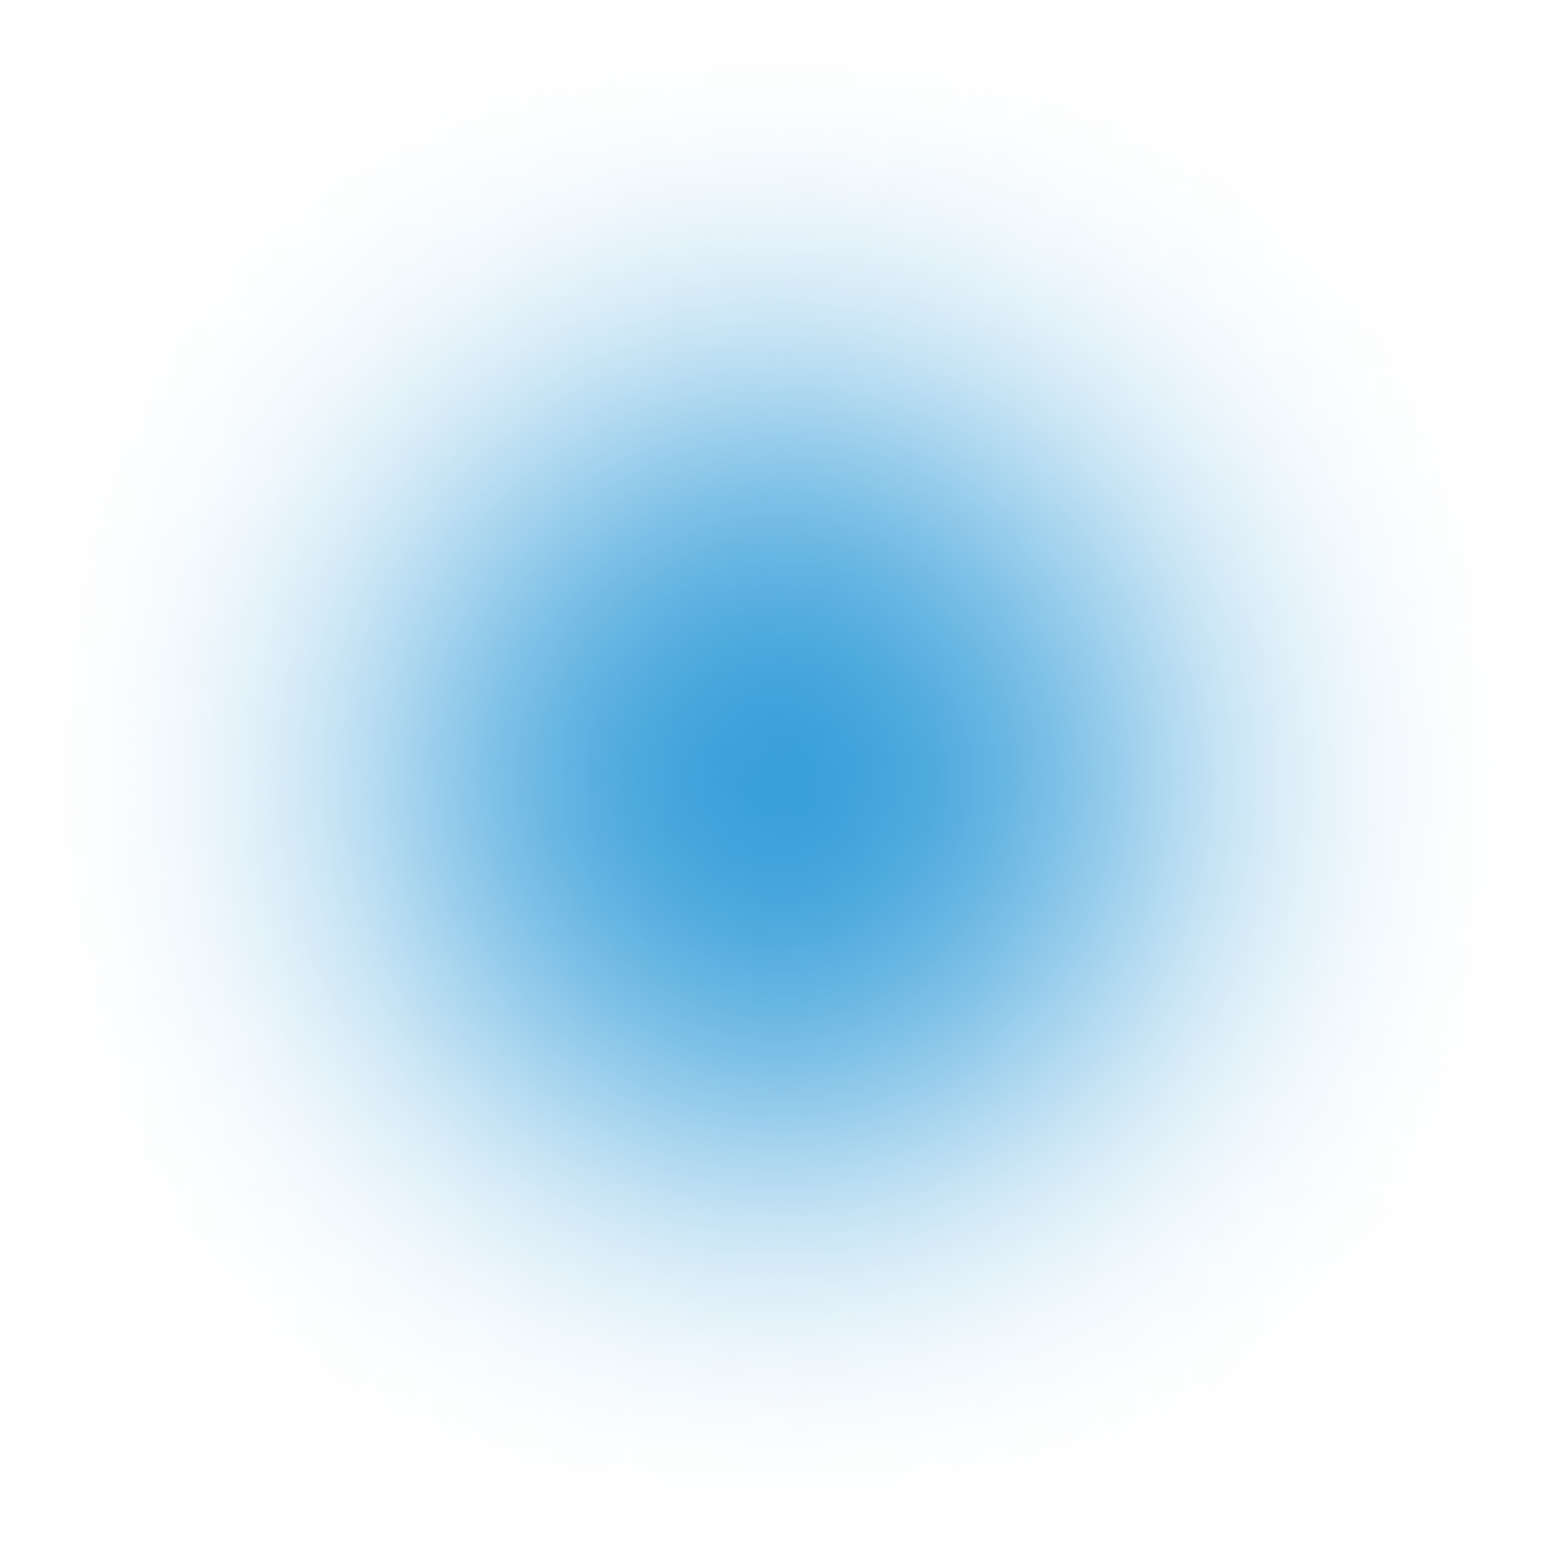
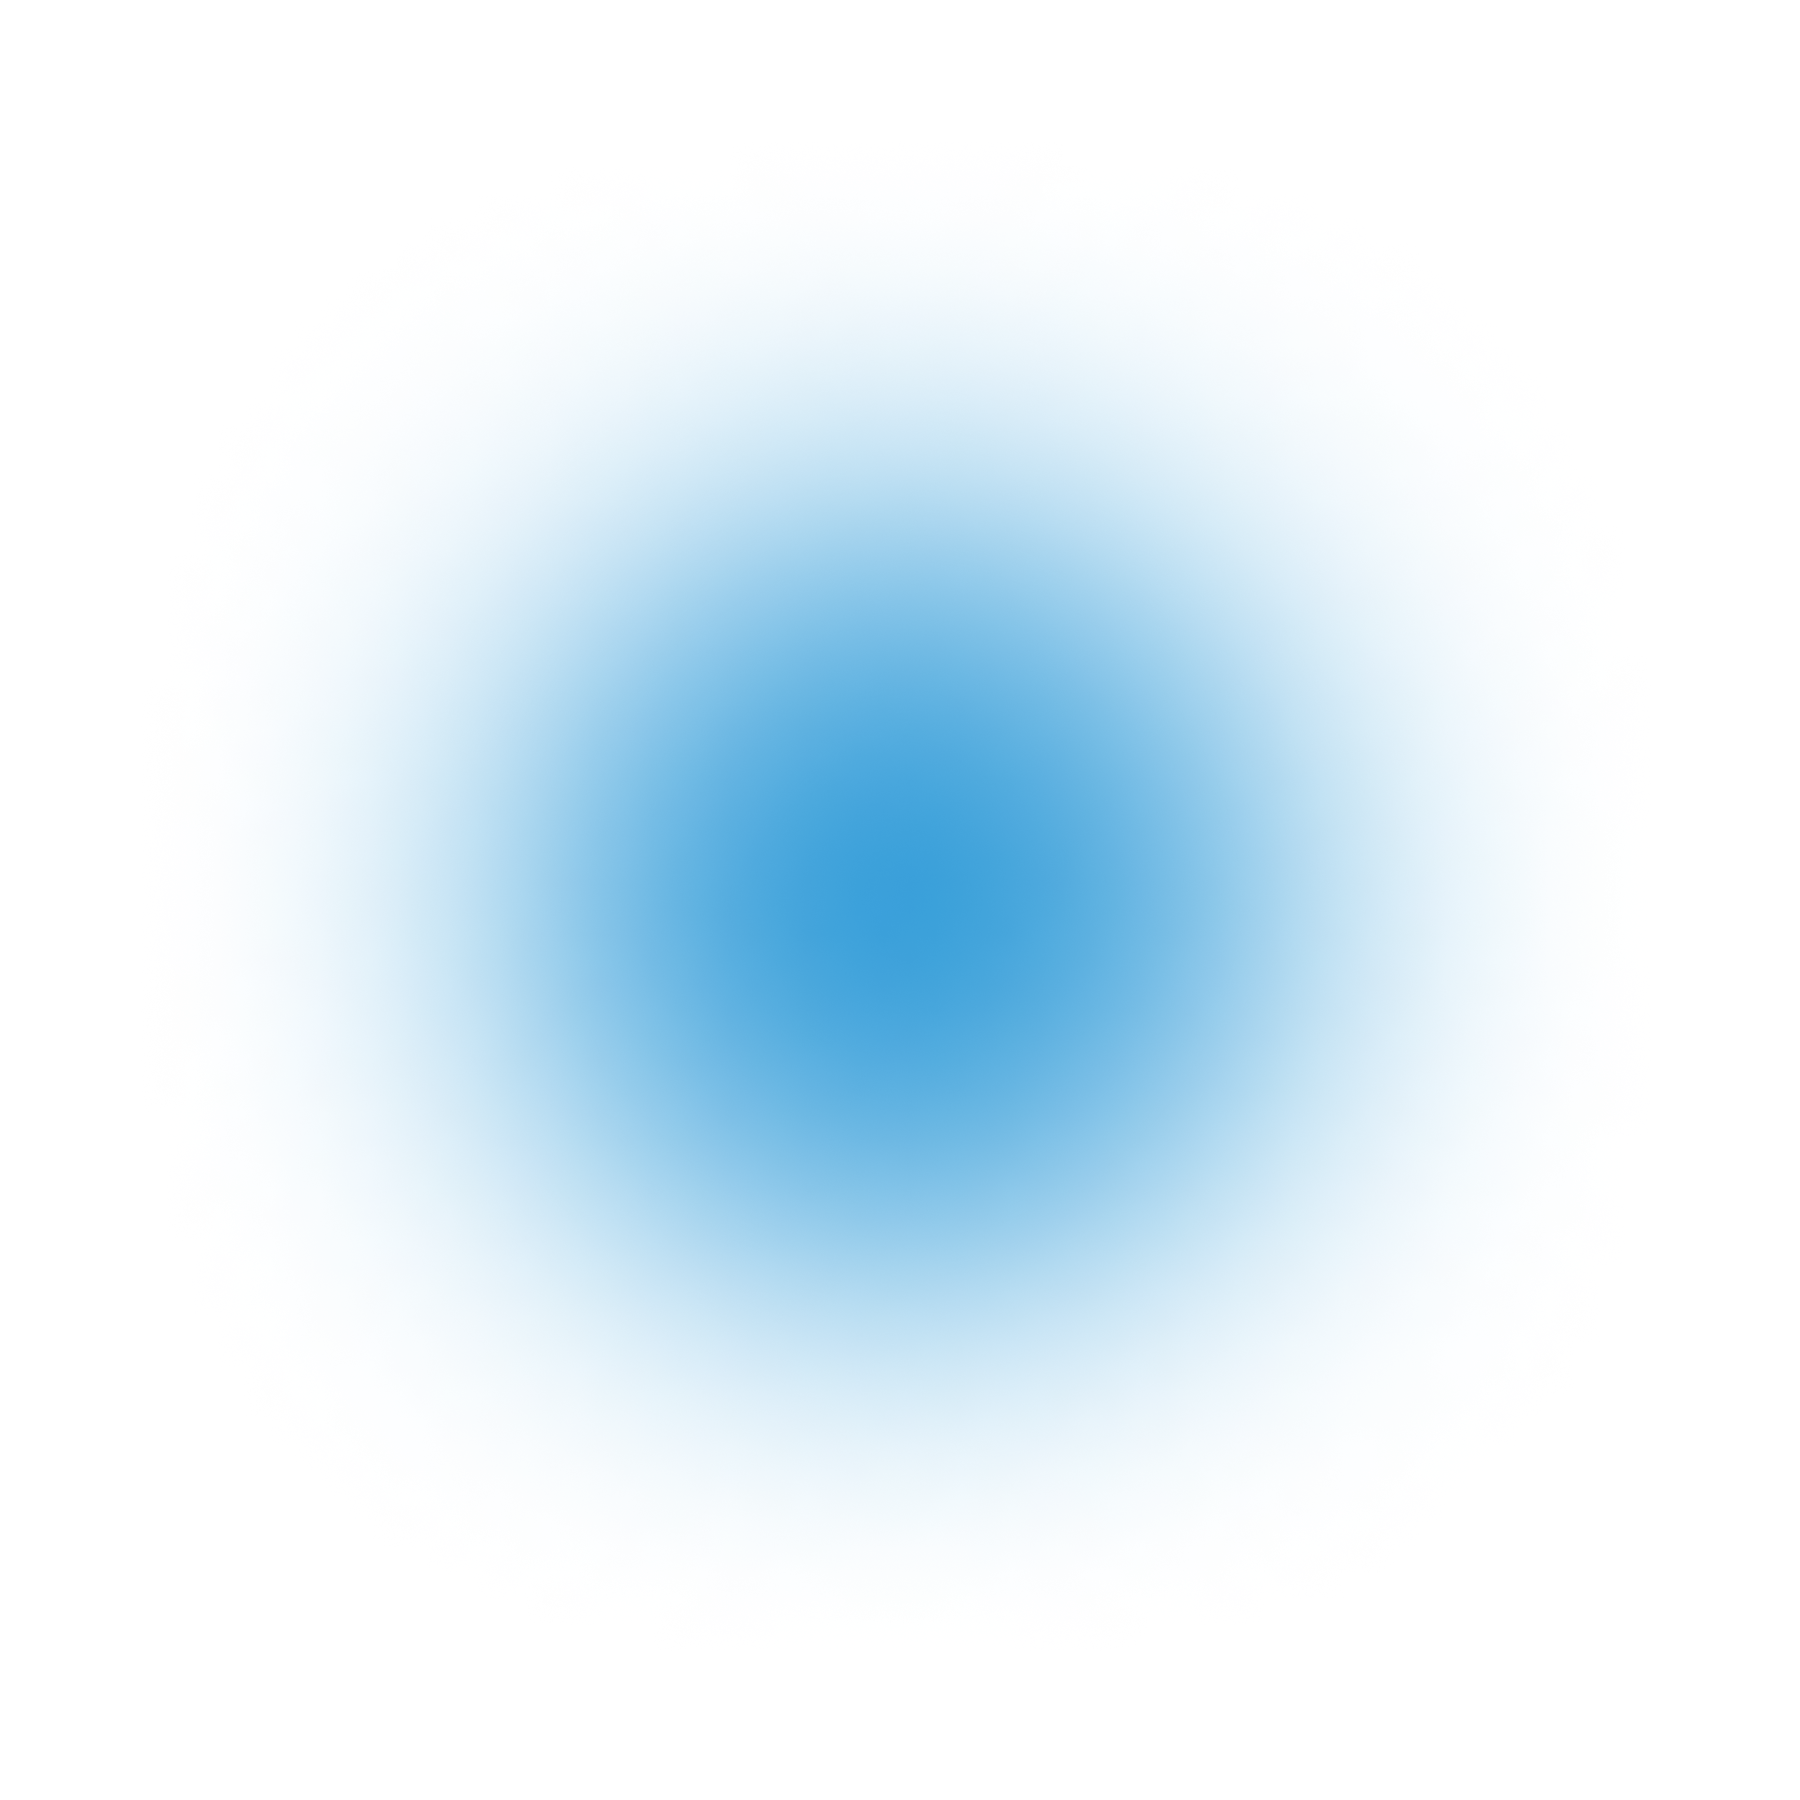
about-ellipses

Changed region(s): [[0.2158, 0.2158, 0.7707, 0.7707]]

diff --git a/app/components/About/About.scss b/app/components/About/About.scss
@@ -1,6 +1,5 @@
 .about {
     width: 100%;
-    // height: 1000px;
     height: clamp(812px, 812px + (1000 - 812) * ((100vw - 375px) / (1600 - 375)), 1000px);
     display: flex;
     flex-direction: column;
@@ -14,26 +13,46 @@
         justify-content: center;
         align-items: center;
         padding: 0 20px;
+        position: relative;
+        @media (max-width: 992px){
+            max-width: 600px;
+        }
     }
     &::before {
         content: "";
         width: 1600px;
         height: 1562px;
-        //   height: clamp(812px, 812px + (1562 - 812) * ((100vw - 375px) / (1600 - 375)), 1562px);
         background-image: url("/about.png");
         background-repeat: no-repeat;
         background-size: cover;
         background-position: center;
         position: absolute;
         top: -274px;
-        z-index: -2;
+        z-index: -1;
         @media (max-width: 992px) {
-            height: 812px;
-            top: 0;
+            height: 1070px;
+            top: -84px;
             width: 1000px;
         }
+        @media (max-width: 768px){
+               height: 812px;
+               top: 0;
+        }
     }
-
+    &__ellipses {
+        position: absolute;
+        background-image: url("/about-ellipses.png");
+        background-repeat: no-repeat;
+        background-size: cover;
+        width: 1800px;
+        height: 1800px;
+        right: 100px;
+        z-index: -1;
+        opacity: 0.6;
+        @media (max-width: 768px) {
+            background-image: none;
+        }
+    }
     a {
         padding: 10px;
         margin-bottom: 40px;

diff --git a/app/components/About/About.tsx b/app/components/About/About.tsx
@@ -5,8 +5,9 @@ import AcccentTitle from "../AcccentTitle/AccentTitle";
 
 export default function About() {
   return (
-    <section className="about"id="about">
+    <section className="about" id="about">
       <div className="about__content">
+        <div className="about__ellipses"></div>
         <Link href="#">
           <AcccentTitle>About the company</AcccentTitle>
         </Link>

diff --git a/app/components/Cases/Cases.scss b/app/components/Cases/Cases.scss
@@ -54,6 +54,7 @@
         top: -77%;
         right: -67%;
         z-index: -1;
+        opacity: 0.8;
         @media (max-width: 992px){
           background-image: url("/cases-ellipses-992.png");   
           width: 1100px;
